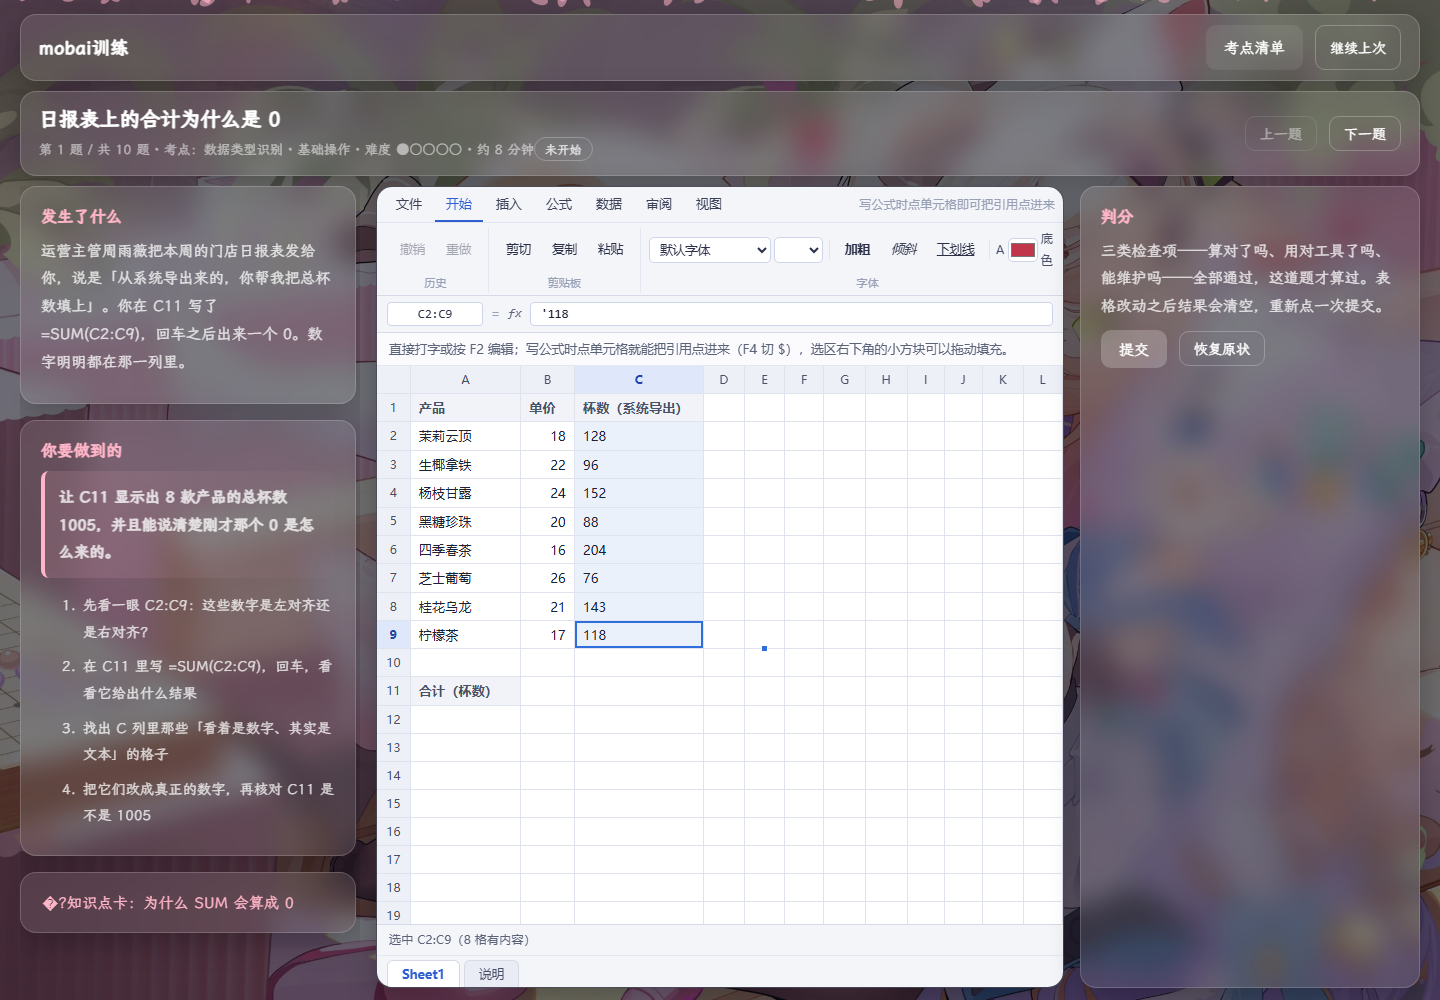
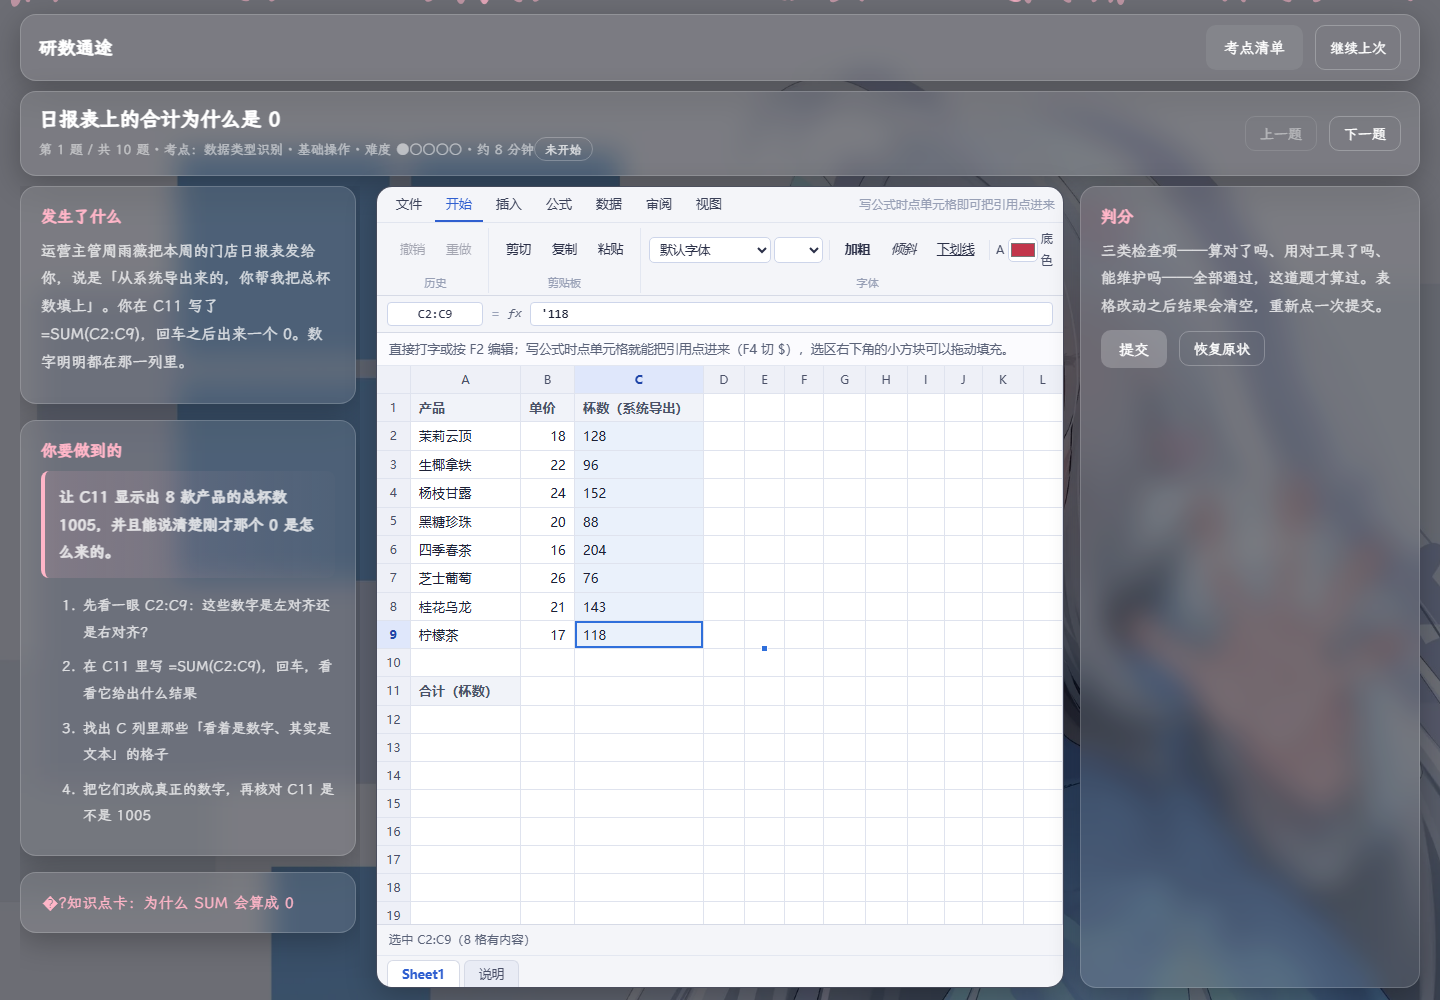
refactor: 站点更名为研数通途
把展示名称 mobai训练 统一改为研数通途，覆盖页面标题、导航栏、README 与各文件头部注释；重截模块页与练习页截图。代码命名空间 Mobai、进度存储键 mobai.progress.v1 与仓库地址保持不变，以免丢失已有练习进度或使链接失效。

diff --git a/exercise.html b/exercise.html
@@ -3,7 +3,7 @@
 <head>
 <meta charset="UTF-8" />
 <meta name="viewport" content="width=device-width, initial-scale=1.0" />
-<title>练习 · mobai训练</title>
+<title>练习 · 研数通途</title>
 <link rel="stylesheet" href="assets/styles.css" />
 </head>
 <body class="is-workspace">
@@ -11,7 +11,7 @@
 
   <div class="container is-workspace">
     <nav class="glass">
-      <div class="nav-title"><a href="index.html">mobai训练</a></div>
+      <div class="nav-title"><a href="index.html">研数通途</a></div>
       <div class="nav-buttons">
         <a class="btn btn-secondary" href="excel.html">考点清单</a>
         <button class="btn btn-ghost" id="btn-continue" type="button">继续上次</button>

diff --git a/excel.html b/excel.html
@@ -3,7 +3,7 @@
 <head>
 <meta charset="UTF-8" />
 <meta name="viewport" content="width=device-width, initial-scale=1.0" />
-<title>Excel 模块 · mobai训练</title>
+<title>Excel 模块 · 研数通途</title>
 <link rel="stylesheet" href="assets/styles.css" />
 </head>
 <body>
@@ -11,7 +11,7 @@
 
   <div class="container">
     <nav class="glass">
-      <div class="nav-title"><a href="index.html">mobai训练</a></div>
+      <div class="nav-title"><a href="index.html">研数通途</a></div>
       <div class="nav-buttons">
         <button class="btn btn-primary" id="btn-continue" type="button">继续练习</button>
         <button class="btn btn-secondary" id="btn-home" type="button">回首页</button>

diff --git a/js/page-exercise.js b/js/page-exercise.js
@@ -1,4 +1,4 @@
-/* mobai训练 · 练习页
+/* 研数通途 · 练习页
  * 左栏是题面与判分，右栏是表格。表格一改，上一次的判分结论就作废（清空），
  * 免得看着旧的绿字以为已经过了。
  * 手机（<1024px）不挂表格，只留题面、知识卡与进度——编辑要靠键盘，手机给不了。
@@ -57,7 +57,7 @@
   }
 
   function renderHead() {
-    document.title = ex.title + ' · mobai训练';
+    document.title = ex.title + ' · 研数通途';
     byId('ex-title').textContent = ex.title;
     renderMeta();
     byId('ex-background').textContent = ex.background;

diff --git a/js/sheet.js b/js/sheet.js
@@ -1,4 +1,4 @@
-/* mobai训练 · 表格组件
+/* 研数通途 · 表格组件
  * 目标是「手感像 Excel」，不是功能像 Excel。三个反射动作必须成立：
  *   1) 写公式时用鼠标点 / 拖单元格 → 引用自动插进公式，F4 切 $ 的四种写法
  *   2) 选区右下角的填充柄：拖动填充（等差 / 日期 / 文本编号 / 公式平移），双击一拉到底

diff --git a/assets/styles.css b/assets/styles.css
@@ -1,4 +1,4 @@
-/* mobai训练 · 样式基线
+/* 研数通途 · 样式基线
  * 沿用模板 test.html 的洛樱风格：毛玻璃卡片、樱花粒子、深色遮底�? * 新增：技能树、知识点卡、判分结果、自研表格�? */
 
 /* 霞鹜文楷 屏幕阅读版（LXGW WenKai Screen）——开源字体（SIL OFL 1.1），与参考站同款。

diff --git a/index.html b/index.html
@@ -3,7 +3,7 @@
 <head>
 <meta charset="UTF-8" />
 <meta name="viewport" content="width=device-width, initial-scale=1.0" />
-<title>mobai训练 · 用真实业务练数据分析</title>
+<title>研数通途 · 用真实业务练数据分析</title>
 <link rel="stylesheet" href="assets/styles.css?v=3" />
 <style>
   /* ============================================

diff --git a/js/fill.js b/js/fill.js
@@ -1,4 +1,4 @@
-/* mobai训练 · 填充与引用改写
+/* 研数通途 · 填充与引用改写
  * 三件事，都是纯函数（tools/verify.js 直接测）：
  *   shiftFormulaText  公式里的相对引用按 (dCol,dRow) 平移
  *   transformRefs     把公式里每个引用交给回调重写（插入/删除行列时用）

diff --git a/data/universe.js b/data/universe.js
@@ -1,4 +1,4 @@
-/* mobai训练 · 业务宇宙「云栖茶饮」
+/* 研数通途 · 业务宇宙「云栖茶饮」
  * 所有练习共享同一家公司：12 家门店的连锁奶茶品牌。
  * 这里只放「名字」，不放数据——各题的工作簿数据直接写在题目对象里（见 spec §9.3）。
  */

diff --git a/js/formula/parser.js b/js/formula/parser.js
@@ -1,4 +1,4 @@
-/* mobai训练 · 公式解析器
+/* 研数通途 · 公式解析器
  * 先解析成 AST，再求值——判分要回答「用了哪个函数、引用了哪个区域、有没有绝对
  * 引用」，只有 AST 能可靠回答，所以引擎里不允许出现字符串匹配判分。
  *

diff --git a/js/ribbon.js b/js/ribbon.js
@@ -1,4 +1,4 @@
-/* mobai训练 · 功能区
+/* 研数通途 · 功能区
  * Excel 顶部那一排标签与按钮。只有「开始」有真按钮，其它标签点开写明「这个练习用不到」——
  * 不为凑数量放一堆灰按钮，那只会让人以为自己漏学了什么。
  *

diff --git a/js/formula/errors.js b/js/formula/errors.js
@@ -1,4 +1,4 @@
-/* mobai训练 · 错误值
+/* 研数通途 · 错误值
  * 引擎只产生 6 个错误码；每个错误码配一份中文成因解释（独立的教学资产，
  * 与判分提示分开维护）。判分未通过时展示的是解释，而不是错误码本身。
  */

diff --git a/js/page-module.js b/js/page-module.js
@@ -1,4 +1,4 @@
-/* mobai训练 · 模块页（Excel）
+/* 研数通途 · 模块页（Excel）
  * 三件事：把 5 阶段的考点清单画出来、把进度条与文案填上、接上导出/导入。
  * 知识卡折叠在每行下面，卡住时点开就行，不跳页。
  */
